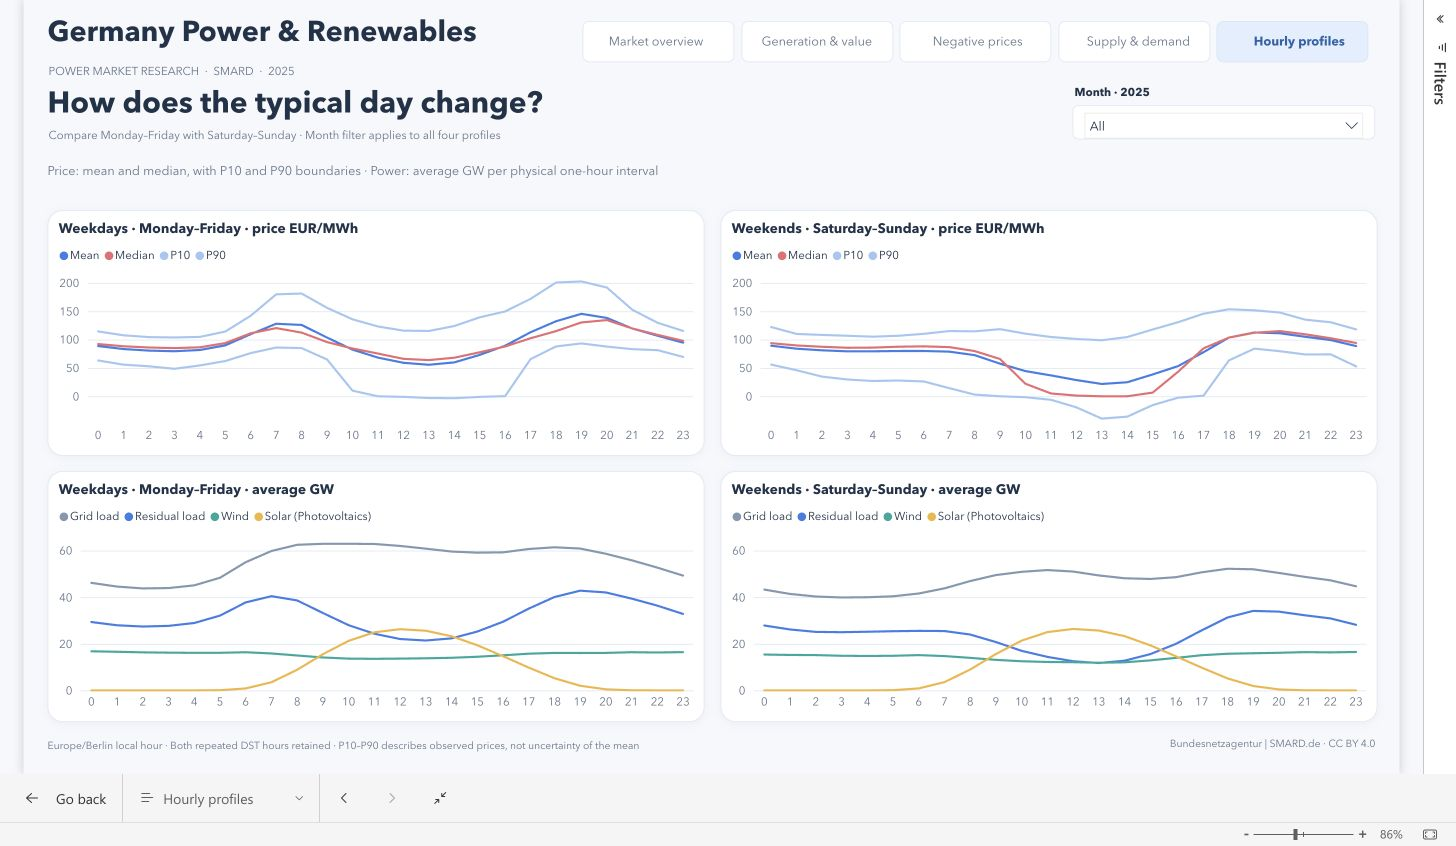
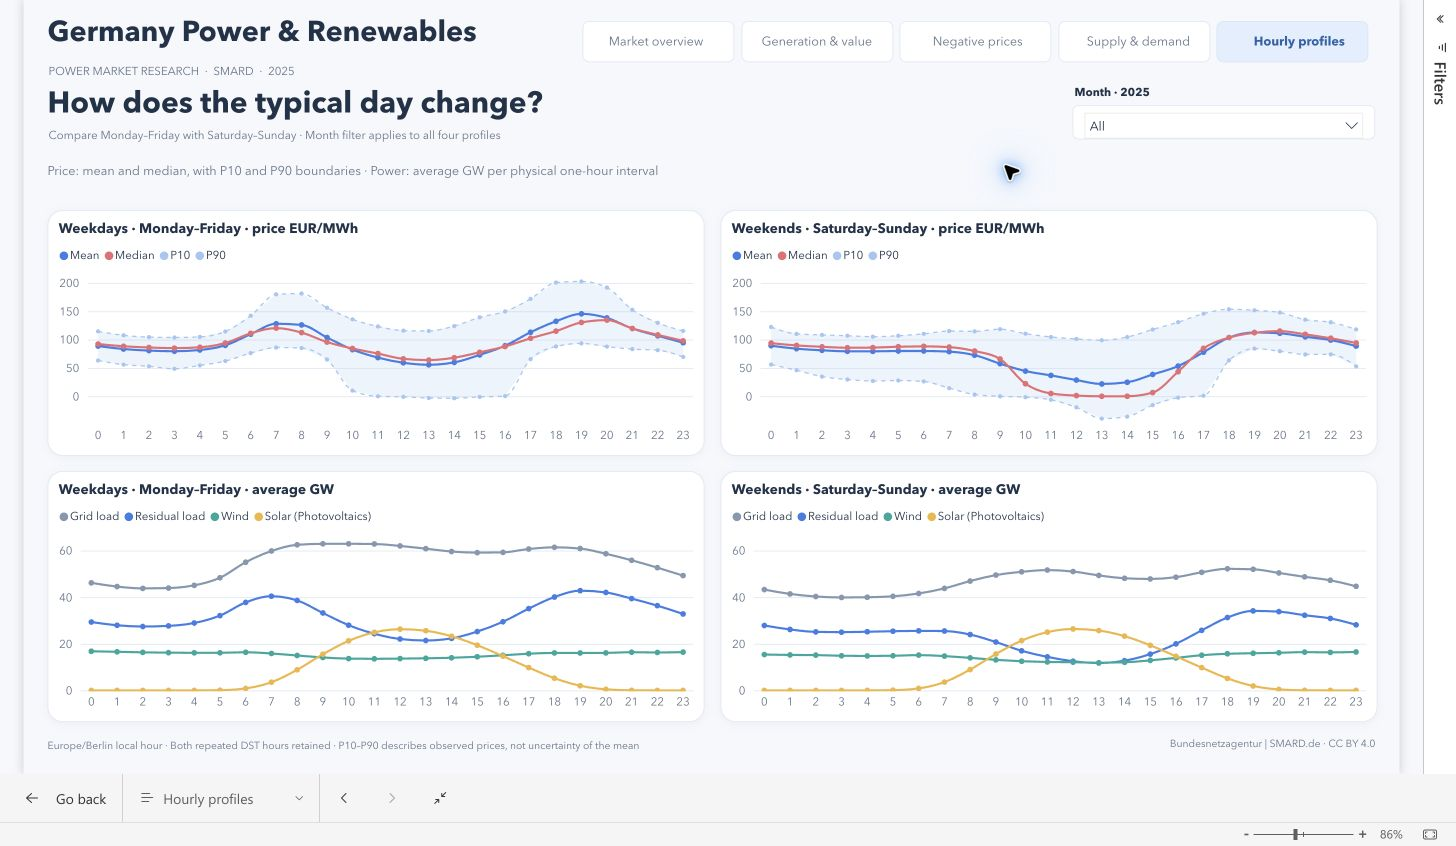
Capture verified smooth profile lines and shaded percentile range

diff --git a/research/metrics_and_figures.md b/research/metrics_and_figures.md
@@ -146,7 +146,7 @@ The Hourly profiles page implements the price and average-power profiles describ
 
 The fifth report page compares Monday–Friday with Saturday–Sunday in adjacent panels, using a shared month selector. Local hours run from 0 to 23 in Europe/Berlin. All selected physical hours contribute equally within each local-hour/day-type group. Public holidays are not separated from weekdays. A repeated autumn hour contributes two observations; the missing spring hour contributes none.
 
-Price lines show the arithmetic mean, median, and the P10 and P90 boundaries. Percentiles use inclusive linear interpolation (`PERCENTILEX.INC`) on nonblank hourly prices in the selected group. The interval describes the middle 80% of the empirical distribution, subject to interpolation and ties; it is neither a forecast interval nor a confidence interval for the mean. Bounds are drawn as light-blue lines. Month selections recompute statistics from hourly observations rather than averaging monthly percentiles.
+Price lines show the arithmetic mean, median, and the P10 and P90 boundaries. Percentiles use inclusive linear interpolation (`PERCENTILEX.INC`) on nonblank hourly prices in the selected group. The interval describes the middle 80% of the empirical distribution, subject to interpolation and ties; it is neither a forecast interval nor a confidence interval for the mean. Bounds are drawn as dashed light-blue lines with a matching fill at 80% transparency between P10 and P90. Circular markers show observed hour-category statistics. Monotone interpolation smooths the connecting lines without changing the 24 computed values. Month selections recompute statistics from hourly observations rather than averaging monthly percentiles.
 
 Power profiles use the mean hourly MWh divided by 1,000, equivalent to mean GW because each physical interval lasts one hour. Grid load uses the existing `grid_load_mwh` measure without adding pumping consumption. Wind combines onshore and offshore. Residual load remains the supplied SMARD series; it may be negative and is not floored at zero. Solar retains the caption Solar (Photovoltaics). Paired price panels share a dynamic range covering all four statistics; paired power panels share a range that also includes negative residual load.
 

diff --git a/evidence/powerbi/README.md b/evidence/powerbi/README.md
@@ -47,3 +47,5 @@ Price mean, median and P10/P90 boundaries are shown separately for weekdays and 
 Independent numerical checks for every year/month, day-type and local-hour group are in [hourly_profiles_local.json](hourly_profiles_local.json). The file contains 624 groups; annual coverage is 6,264 weekday and 2,496 weekend physical hours. June contains 504 weekday and 216 weekend hours.
 
 ![June hourly profiles in Fabric](07_hourly_profiles_june.png)
+
+The hourly-profile styling uses circular markers and monotone smooth interpolation. P10 and P90 are dashed in light blue (#A4C7F2), with a matching native error band at 80% transparency. The native band uses the inclusive percentile measures as absolute bounds on the median series; it does not shade down to zero. All profile statistics and month filters retain their original definitions.
